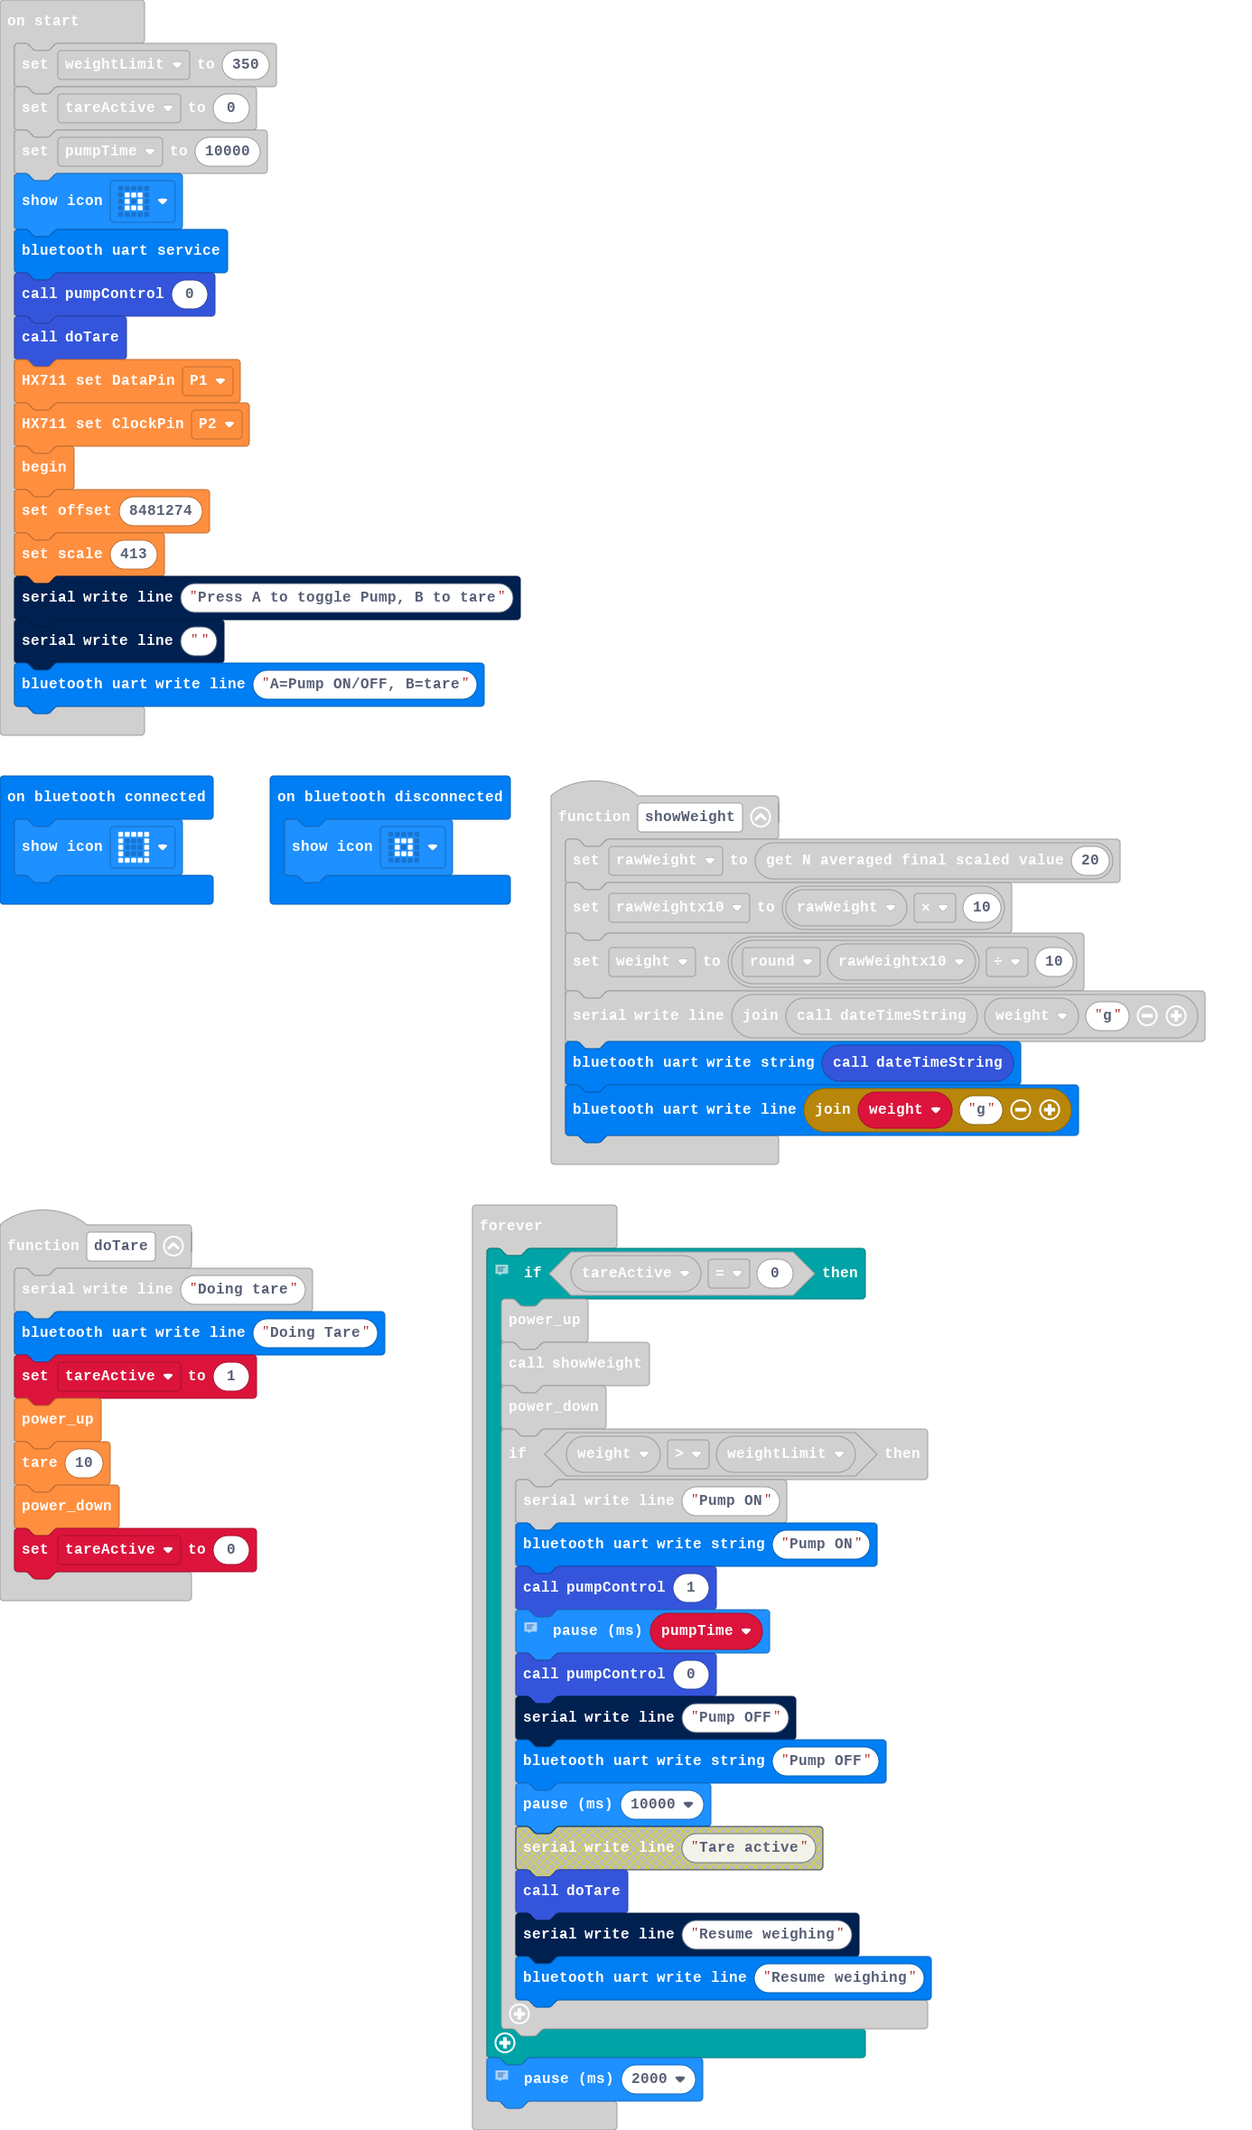
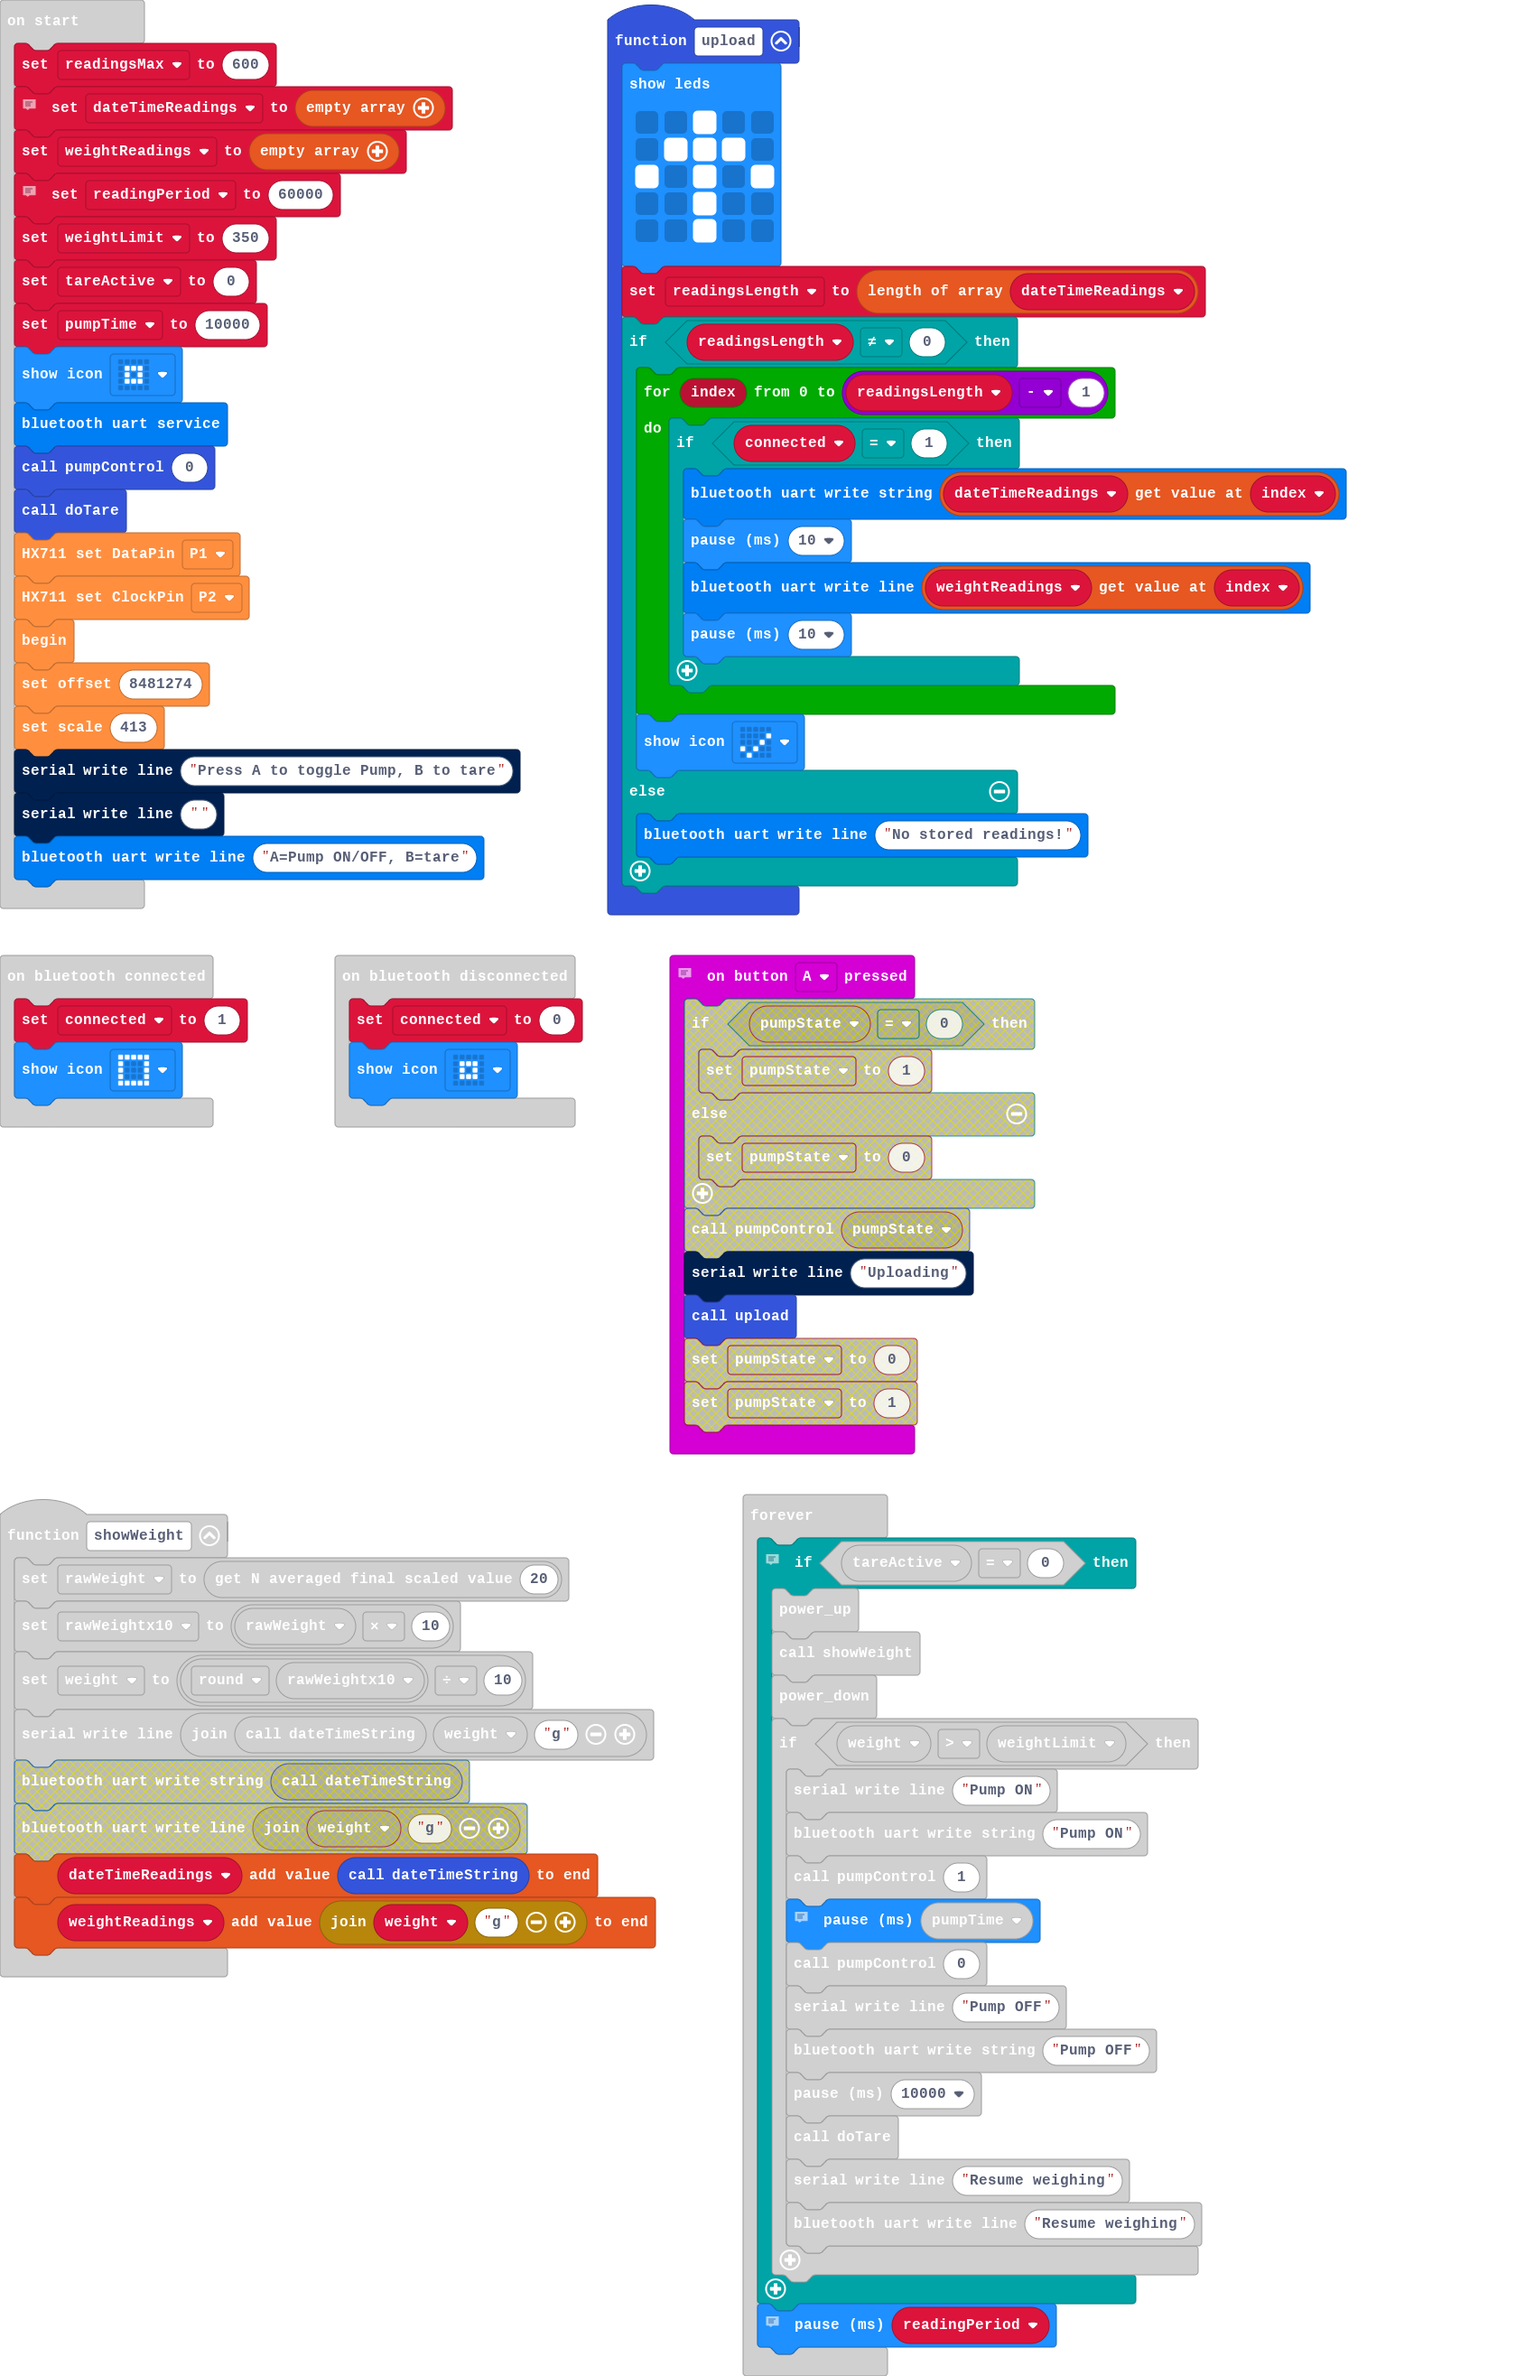
added stored readings, upload on button A

diff --git a/main.ts b/main.ts
@@ -12,10 +12,11 @@ function showWeight () {
     rawWeightx10 = rawWeight * 10
     weight = Math.round(rawWeightx10) / 10
     serial.writeLine("" + dateTimeString() + weight + "g")
-    bluetooth.uartWriteString(dateTimeString())
-    bluetooth.uartWriteLine("" + weight + "g")
+    dateTimeReadings.push(dateTimeString())
+    weightReadings.push("" + weight + "g")
 }
 function pumpControl (pumpState: number) {
+    let pumpState = 0
     pins.digitalWritePin(DigitalPin.P8, pumpState)
 }
 function leadingZero (num: number) {
@@ -26,32 +27,62 @@ function leadingZero (num: number) {
     }
 }
 bluetooth.onBluetoothConnected(function () {
+    connected = 1
     basic.showIcon(IconNames.Square)
 })
 bluetooth.onBluetoothDisconnected(function () {
+    connected = 0
     basic.showIcon(IconNames.SmallSquare)
 })
 // Button A => Pump toggle
 input.onButtonPressed(Button.A, function () {
-    if (pumpState == 0) {
-        pumpState = 1
-    } else {
-        pumpState = 0
-    }
-    pumpControl(pumpState)
+    serial.writeLine("Uploading")
+    upload()
 })
 function dateTimeString () {
     return "" + leadingZero(DS3231.date()) + "/" + leadingZero(DS3231.month()) + "/" + DS3231.year() + " " + leadingZero(DS3231.hour()) + ":" + leadingZero(DS3231.minute()) + " "
+}
+function upload () {
+    basic.showLeds(`
+        . . # . .
+        . # # # .
+        # . # . #
+        . . # . .
+        . . # . .
+        `)
+    readingsLength = dateTimeReadings.length
+    if (readingsLength != 0) {
+        for (let index = 0; index <= readingsLength - 1; index++) {
+            if (connected == 1) {
+                bluetooth.uartWriteString(dateTimeReadings[index])
+                basic.pause(10)
+                bluetooth.uartWriteLine(weightReadings[index])
+                basic.pause(10)
+            }
+        }
+        basic.showIcon(IconNames.Yes)
+    } else {
+        bluetooth.uartWriteLine("No stored readings!")
+    }
 }
 // Button B => Tare
 input.onButtonPressed(Button.B, function () {
     doTare()
 })
-let pumpState = 0
+let readingsLength = 0
+let connected = 0
 let weight = 0
 let rawWeightx10 = 0
 let rawWeight = 0
 let tareActive = 0
+let weightReadings: string[] = []
+let dateTimeReadings: string[] = []
+let readingsMax = 600
+// storage
+dateTimeReadings = []
+weightReadings = []
+// time between readings (ms)
+let readingPeriod = 60000
 let weightLimit = 350
 tareActive = 0
 let pumpTime = 10000
@@ -89,5 +120,5 @@ basic.forever(function () {
         }
     }
     // Delay of ~1-2s is important
-    basic.pause(2000)
+    basic.pause(readingPeriod)
 })
